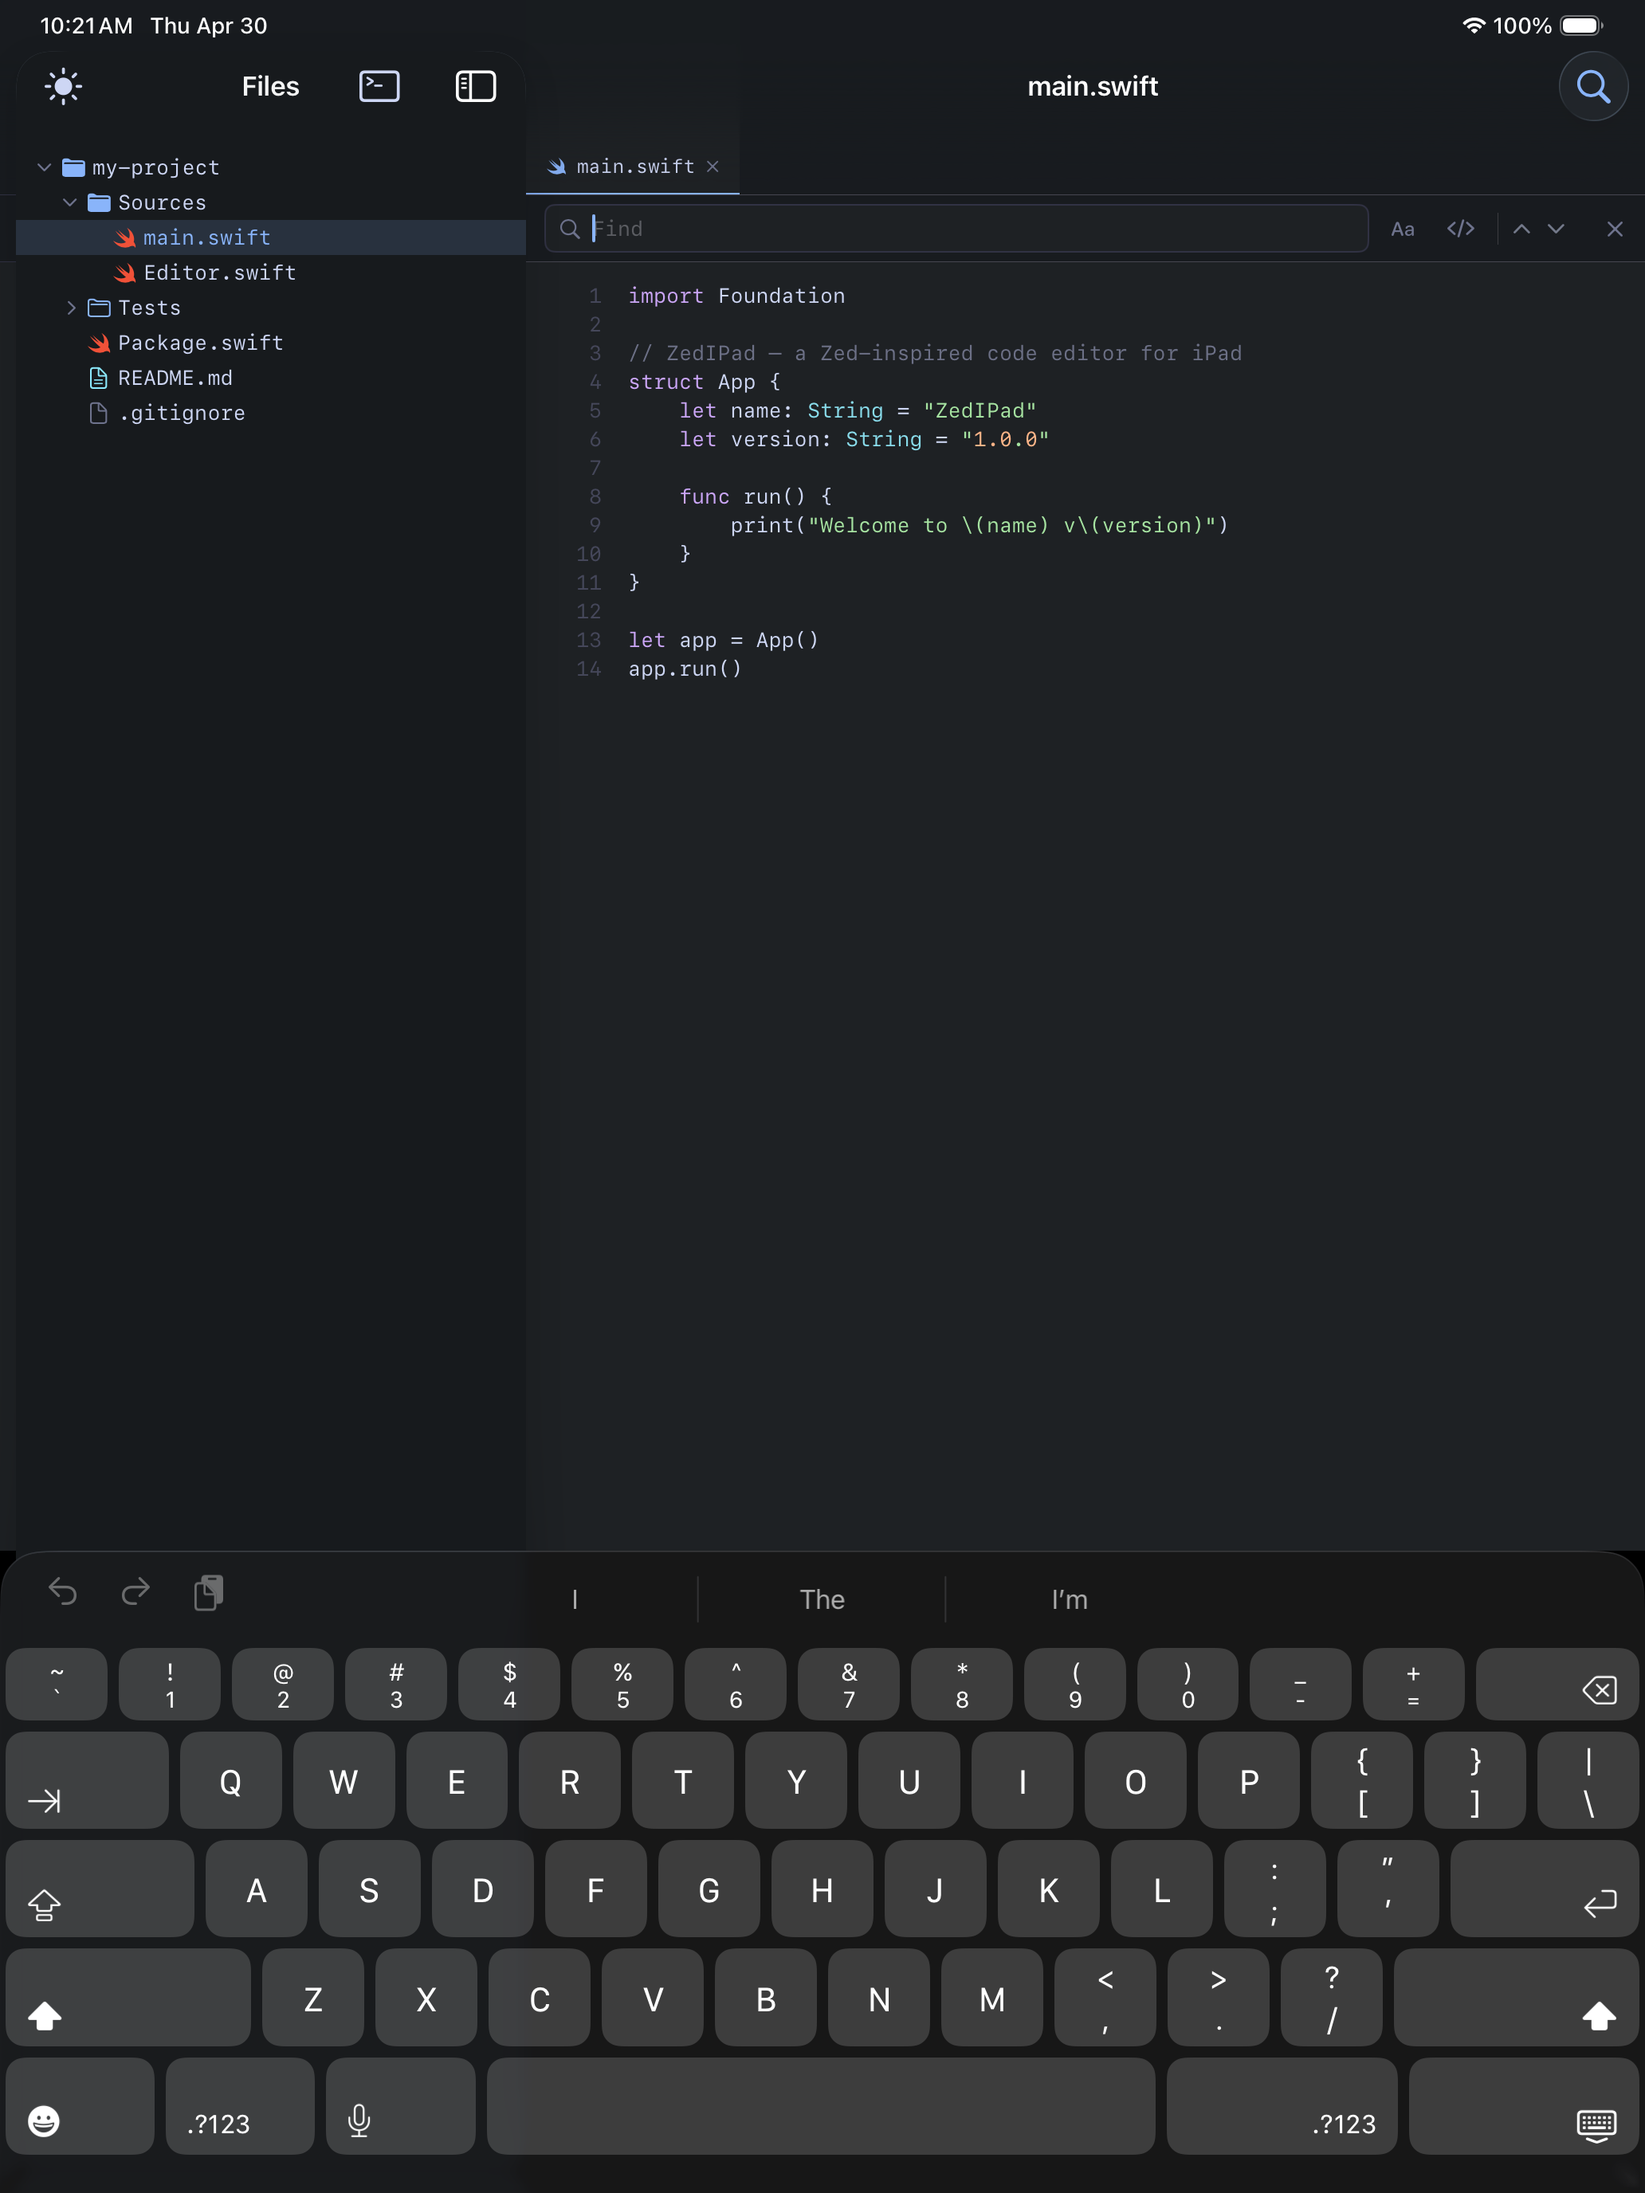
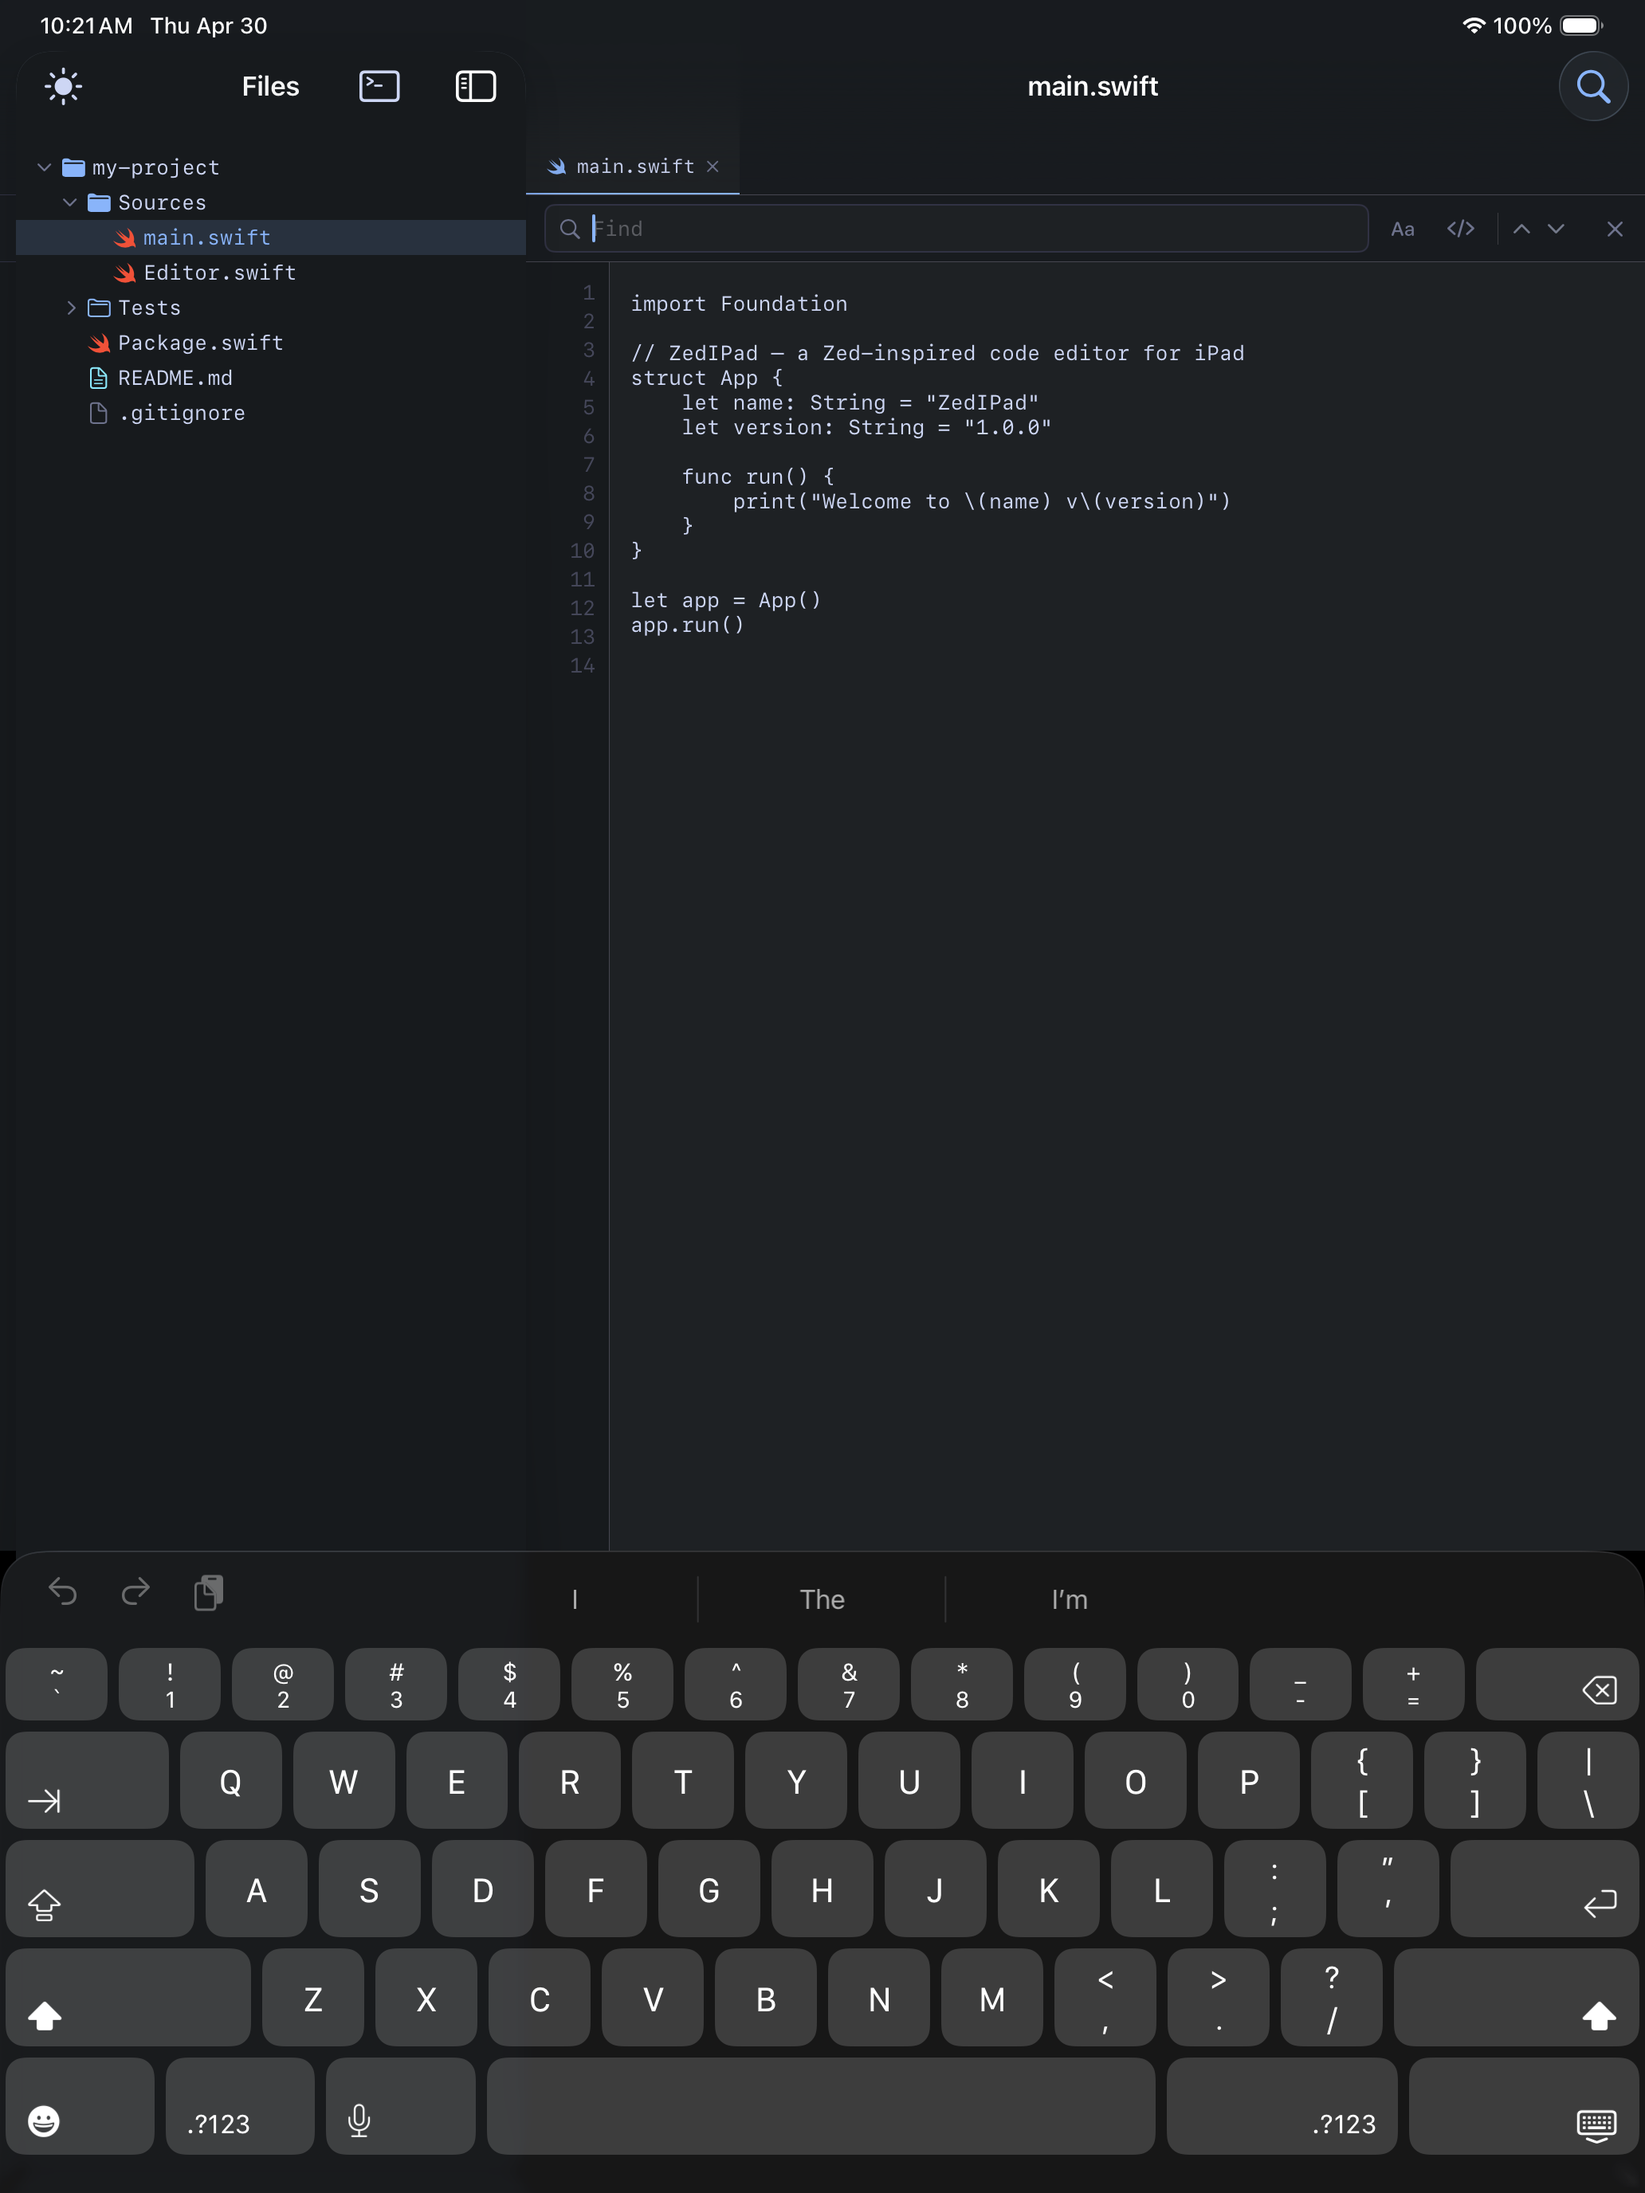
experiment: iter 1 — editable TextEditor with line number gutter (score: 671)

Changed region(s): [[0.3721, 0.125, 0.6822, 0.25], [0.3411, 0.25, 0.4341, 0.3125], [0.6512, 0.2188, 0.7442, 0.25]]

diff --git a/ZedIPad/Editor/EditorView.swift b/ZedIPad/Editor/EditorView.swift
@@ -7,13 +7,11 @@ struct EditorView: View {
 
     var body: some View {
         VStack(spacing: 0) {
-            // Tab bar
             EditorTabBar(file: file)
 
             Divider()
                 .background(appState.theme.borderColor)
 
-            // Find bar
             if showingFind {
                 FindBar(isVisible: $showingFind)
                     .transition(.move(edge: .top).combined(with: .opacity))
@@ -21,8 +19,7 @@ struct EditorView: View {
                     .background(appState.theme.borderColor)
             }
 
-            // Editor body
-            CodeEditorBody(file: file)
+            EditableCodeEditor(file: file)
         }
         .background(appState.theme.editorBackground)
         .toolbar {
@@ -43,6 +40,8 @@ struct EditorView: View {
     }
 }
 
+// MARK: - Tab Bar
+
 struct EditorTabBar: View {
     @EnvironmentObject private var appState: AppState
     let file: FileNode
@@ -52,9 +51,7 @@ struct EditorTabBar: View {
             HStack(spacing: 0) {
                 ForEach(appState.openFiles) { openFile in
                     EditorTab(file: openFile, isActive: openFile.id == file.id)
-                        .onTapGesture {
-                            appState.openFile(openFile)
-                        }
+                        .onTapGesture { appState.openFile(openFile) }
                 }
             }
         }
@@ -99,26 +96,77 @@ struct EditorTab: View {
     }
 }
 
-struct CodeEditorBody: View {
+// MARK: - Editable Editor
+
+struct EditableCodeEditor: View {
     @EnvironmentObject private var appState: AppState
     @ObservedObject var file: FileNode
-    @State private var scrollPosition: CGPoint = .zero
+    @State private var lineCount: Int = 1
 
     var body: some View {
         GeometryReader { geo in
-            ScrollView([.horizontal, .vertical]) {
-                HighlightedCodeView(
-                    text: file.content,
-                    language: Language.detect(from: file.fileExtension),
-                    theme: appState.theme
-                )
-                .padding(.vertical, 12)
-                .frame(minWidth: geo.size.width, minHeight: geo.size.height, alignment: .topLeading)
+            HStack(alignment: .top, spacing: 0) {
+                // Line numbers gutter
+                LineNumberGutter(text: file.content, theme: appState.theme)
+                    .frame(width: 52)
+
+                Divider()
+                    .background(appState.theme.borderColor)
+
+                // Editable text area with syntax overlay
+                ZStack(alignment: .topLeading) {
+                    // Background
+                    appState.theme.editorBackground
+
+                    // Editable TextEditor (provides actual editing)
+                    TextEditor(text: Binding(
+                        get: { file.content },
+                        set: { file.content = $0 }
+                    ))
+                    .font(.system(size: 13, design: .monospaced))
+                    .foregroundColor(appState.theme.primaryText)
+                    .scrollContentBackground(.hidden)
+                    .background(Color.clear)
+                    .padding(.horizontal, 8)
+                    .padding(.vertical, 10)
+                    .frame(minWidth: geo.size.width - 52, minHeight: geo.size.height)
+                }
             }
         }
         .background(appState.theme.editorBackground)
     }
 }
+
+// MARK: - Line Number Gutter
+
+struct LineNumberGutter: View {
+    let text: String
+    let theme: ZedTheme
+
+    private var lineCount: Int {
+        text.components(separatedBy: "\n").count
+    }
+
+    var body: some View {
+        ScrollView(.vertical, showsIndicators: false) {
+            VStack(alignment: .trailing, spacing: 0) {
+                ForEach(1...max(lineCount, 1), id: \.self) { line in
+                    Text("\(line)")
+                        .font(.system(size: 13, design: .monospaced))
+                        .foregroundColor(theme.lineNumberText)
+                        .padding(.vertical, 1)
+                        .frame(maxWidth: .infinity, alignment: .trailing)
+                }
+            }
+            .padding(.horizontal, 8)
+            .padding(.vertical, 10)
+        }
+        .background(theme.sidebarBackground)
+        .disabled(true)
+    }
+}
+
+// MARK: - Highlighted Code View (read-only, used in search preview)
 
 struct HighlightedCodeView: View {
     let text: String
@@ -131,7 +179,6 @@ struct HighlightedCodeView: View {
         let tokens = highlighter.highlight(text, language: language)
 
         HStack(alignment: .top, spacing: 0) {
-            // Line numbers
             VStack(alignment: .trailing, spacing: 0) {
                 ForEach(Array(lines.enumerated()), id: \.offset) { index, _ in
                     Text("\(index + 1)")
@@ -144,7 +191,6 @@ struct HighlightedCodeView: View {
             .padding(.trailing, 16)
             .padding(.leading, 8)
 
-            // Code content
             VStack(alignment: .leading, spacing: 0) {
                 ForEach(Array(lines.enumerated()), id: \.offset) { index, line in
                     CodeLineView(line: line, lineIndex: index, text: text, tokens: tokens, theme: theme)
@@ -165,56 +211,40 @@ struct CodeLineView: View {
 
     var body: some View {
         if line.isEmpty {
-            Text(" ")
-                .font(.system(size: 13, design: .monospaced))
+            Text(" ").font(.system(size: 13, design: .monospaced))
         } else {
-            attributedLine
+            Text(buildAttributedString())
+                .font(.system(size: 13, design: .monospaced))
+                .textSelection(.enabled)
         }
-    }
-
-    private var attributedLine: some View {
-        Text(buildAttributedString())
-            .font(.system(size: 13, design: .monospaced))
-            .textSelection(.enabled)
     }
 
     private func buildAttributedString() -> AttributedString {
-        // Find start index of this line in the full text
         let lineComponents = text.components(separatedBy: "\n")
         var charOffset = 0
         for i in 0..<lineIndex {
-            charOffset += lineComponents[i].count + 1 // +1 for newline
+            charOffset += lineComponents[i].count + 1
         }
-
-        guard charOffset <= text.count else {
-            return AttributedString(line)
-        }
-
+        guard charOffset <= text.count else { return AttributedString(line) }
         let lineStart = text.index(text.startIndex, offsetBy: min(charOffset, text.count))
         let lineEnd = text.index(lineStart, offsetBy: min(line.count, text.count - charOffset))
         let lineRange = lineStart..<lineEnd
 
         var result = AttributedString(line)
-
-        // Apply default color
         result.foregroundColor = theme.primaryText
 
-        // Apply syntax token colors for tokens that overlap this line
         for token in tokens {
             guard token.range.overlaps(lineRange) else { continue }
             let clampedStart = max(token.range.lowerBound, lineRange.lowerBound)
             let clampedEnd = min(token.range.upperBound, lineRange.upperBound)
             guard clampedStart < clampedEnd else { continue }
-
             let offsetStart = text.distance(from: lineStart, to: clampedStart)
             let offsetEnd = text.distance(from: lineStart, to: clampedEnd)
             guard offsetStart >= 0 && offsetEnd <= line.count && offsetStart < offsetEnd else { continue }
-
             let attrStart = result.index(result.startIndex, offsetByCharacters: offsetStart)
             let attrEnd = result.index(result.startIndex, offsetByCharacters: offsetEnd)
             result[attrStart..<attrEnd].foregroundColor = token.color
         }
-
         return result
     }
 }
